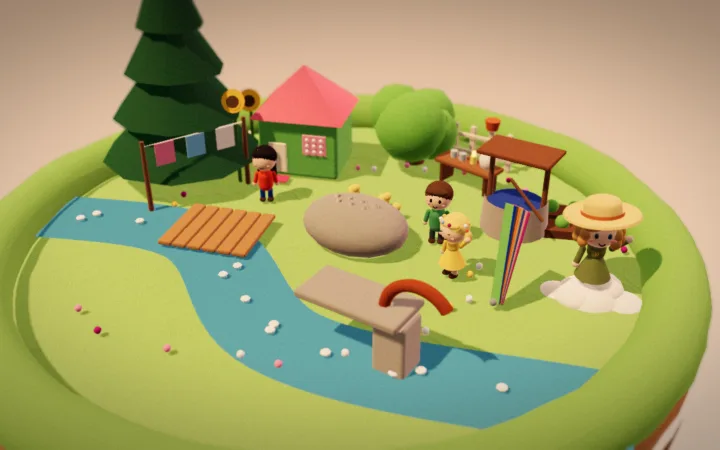
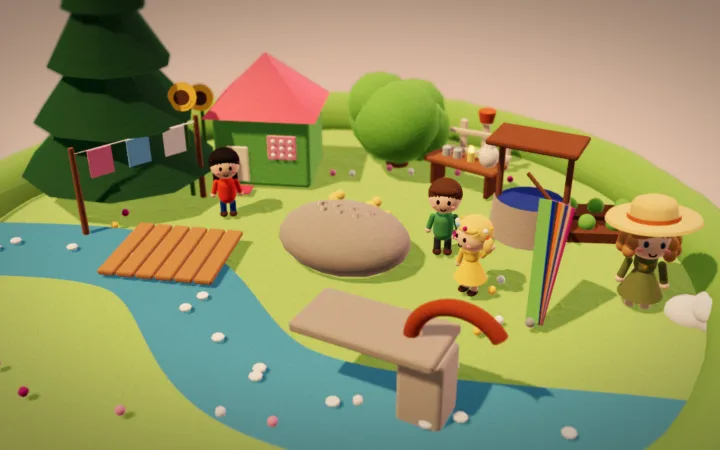
Автор снова спрыгивает на планеты, кнопка ▶ и звук вкл/выкл (spec v0.10) (#17)
- Посадка на каждой планете; места проверены лучом; камера «Асфодели» ниже
- Круглая кнопка ▶ по центру первой реплики, звук вкл/выкл слева внизу
- Отступ реплик от верха экрана 12 px

Claude-Session: https://claude.ai/code/session_01QsQA17zbFwrPucVXSc2DSr

diff --git a/src/world/main.js b/src/world/main.js
@@ -83,7 +83,7 @@ const KEYS = [
   [0.55, () => at('fan', 9, 11, 15), () => at('fan', 0, 0, 0)],
   [0.61, () => dive('fan'), () => focus('fan')],
   [0.72, () => at('asf', 22, 16, 34), () => at('asf', 0, 5, 0)],
-  [0.80, () => atL('asf', 7, 2.5, 13), () => atL('asf', 0, 4.5, 0)],
+  [0.80, () => atL('asf', 7, 3.4, 13), () => atL('asf', 0, 2.8, 0)], // герои и автор внизу целиком в кадре, лестница видна
   [0.88, () => atL('asf', 7, 15, 10), () => atL('asf', 1.2, 10.2, -1.6)],
   [0.94, () => at('home', 16, 13, 20), () => at('home', 0, 0, 0)],
   [1.00, () => dive('home'), () => focus('home')],
@@ -105,10 +105,10 @@ const seatW = () => { const v = new THREE.Vector3(); P.home.seat.getWorldPositio
 const STATIONS = [
   // приветствие: автор близко и по центру кадра, лицом к гостю (spec v0.6)
   { p: 0.00, say: 'intro', wave: true, onCloud: true, pos: () => { const c = V(10, 34, 64); return c.clone().add(V(40, 0, -30).sub(c).normalize().multiplyScalar(9)).add(V(0, -2.5, 0)); } },
-  { p: 0.16, say: 'kuv', pos: local3('kuv', 2.5, 0.3, 1.3), planet: 'kuv' }, // ниже в кадре: над автором есть место для реплики
+  { p: 0.16, say: 'kuv', pos: local3('kuv', 1.7, 0.27, 0.1), planet: 'kuv' }, // край большого листа: твёрдо под ногами (луч сверху), над автором есть место для реплики
   { p: 0.39, say: 'dub', pos: local3('dub', 4.2, 0.06, 1.2), planet: 'dub' }, // трава справа от площадки: не за щитом (проверено лучом сверху)
   { p: 0.61, say: 'fan', pos: local3('fan', 4.2, 0.06, -1.0), planet: 'fan' }, // лужайка справа: не в речке и не за скамейкой (проверено лучом сверху)
-  { p: 0.80, say: 'asf', pos: local3('asf', 2.4, 0.12, 2.1), planet: 'asf' },
+  { p: 0.80, say: 'asf', pos: local3('asf', 2.8, 0.06, 0.4), planet: 'asf' }, // дальше от камеры: целиком в кадре, над головой нет ступеней (луч сверху)
   { p: 1.00, say: 'home', sit: true, pos: seatW, seatQuat: (q) => P.home.seat.getWorldQuaternion(q) },
 ];
 const author = buildAuthor(scene, STATIONS);
@@ -295,7 +295,7 @@ function placeTags() {
       if (on) {
         const [w, h] = sizes.get(el) || [0, 0];
         const x = clamp((v.x * 0.5 + 0.5) * innerWidth, w / 2 + 8, innerWidth - w / 2 - 8);
-        let y = clamp((-v.y * 0.5 + 0.5) * innerHeight, h + 70, innerHeight - 70);
+        let y = clamp((-v.y * 0.5 + 0.5) * innerHeight, h + 12, innerHeight - 40); // меню сверху нет — отступ от края небольшой
         const isSay = el.classList.contains('say');
         if (isSay && innerWidth <= 640) { const r = el.getBoundingClientRect(); if (r.height && root.dataset.say === el.dataset.say) placed.push([r.left, r.top, r.right, r.bottom]); }
         else {
@@ -305,10 +305,10 @@ function placeTags() {
             // сначала пробуем выше, потом ниже того, на что наехали
             let up = y; for (let i = 0; i < 6; i++) { const q = clash(up); if (!q) break; up = q[1] - 6; }
             let dn = y; for (let i = 0; i < 6; i++) { const q = clash(dn); if (!q) break; dn = q[3] + h + 6; }
-            y = up - h > 60 && (y - up <= dn - y || dn > innerHeight - 20) ? up : dn;
+            y = up - h > 8 && (y - up <= dn - y || dn > innerHeight - 20) ? up : dn;
           }
           const shown = !isSay || root.dataset.say === el.dataset.say; // реплика видна только у своей станции
-          if (isSay || (y - h > 60 && y < innerHeight - 20)) { if (shown) placed.push([x - w / 2, y - h, x + w / 2, y]); el.style.transform = `translate3d(${x.toFixed(1)}px, ${y.toFixed(1)}px, 0) translate(-50%, -100%)`; }
+          if (isSay || (y - h > 8 && y < innerHeight - 20)) { if (shown) placed.push([x - w / 2, y - h, x + w / 2, y]); el.style.transform = `translate3d(${x.toFixed(1)}px, ${y.toFixed(1)}px, 0) translate(-50%, -100%)`; }
           else on = false; // места нет — ярлык прячется, пока камера не повернётся
         }
       }

diff --git a/src/app/globals.css b/src/app/globals.css
@@ -396,17 +396,23 @@ html[data-say="home"] .say[data-say="home"].on { visibility: visible; opacity: 1
 .preloader-ring span { position: absolute; inset: 0; display: grid; place-items: center; font-family: var(--font-hand); font-size: 40px; font-weight: 700; color: var(--foreground); font-variant-numeric: tabular-nums; }
 
 /* музыка (spec v0.8): кнопка в первой реплике и нота в углу, пока играет */
-.say-music { display: inline-flex; align-items: center; gap: 6px; font-family: var(--font-hand); font-size: 21px; font-weight: 700; color: var(--accent); text-decoration: underline; text-decoration-style: wavy; text-underline-offset: 5px; cursor: pointer; }
-.say-music span { text-decoration: none; display: inline-block; }
 .music-toggle { position: fixed; z-index: 9; left: calc(14px + env(safe-area-inset-left, 0px)); bottom: calc(14px + env(safe-area-inset-bottom, 0px)); width: 44px; height: 44px; border-radius: 999px;
   display: grid; place-items: center; background: var(--paper); color: var(--accent); font-size: 22px; box-shadow: 0 8px 22px oklch(0.2 0.03 300 / 22%); cursor: pointer; }
-.music-toggle:focus-visible, .say-music:focus-visible { outline: 3px solid var(--ring); outline-offset: 2px; }
-@media (prefers-reduced-motion: no-preference) { .music-toggle span { animation: note-bob 1.6s ease-in-out infinite; } }
-@keyframes note-bob { 50% { transform: translateY(-3px) rotate(-8deg); } }
-@media (max-width: 640px) { .music-toggle { bottom: auto; top: calc(12px + env(safe-area-inset-top, 0px)); } }
+.music-toggle:focus-visible, .say-play:focus-visible { outline: 3px solid var(--ring); outline-offset: 2px; }
 
 /* страница поверх мира — лист по центру, мир за ним притушен (spec v0.8) */
 .has-world .panel { top: 50%; left: 50%; right: auto; bottom: auto; translate: -50% -50%; width: min(760px, calc(100vw - 32px)); height: auto; max-height: calc(100dvh - 48px); }
 @media (max-width: 900px) { .has-world .panel { top: 50%; left: 50%; right: auto; bottom: auto; width: calc(100vw - 24px); height: auto; max-height: calc(100dvh - 32px); border-radius: 3px 4px 7px 3px; } }
 .has-world main:has(.panel)::before { content: ""; position: fixed; inset: 0; z-index: 7; background: oklch(0.2 0.04 300 / 32%); }
 @keyframes panel-in { from { opacity: 0; scale: 0.96; } }
+
+/* музыка (spec v0.10): круглая ▶ по центру первой реплики, звук вкл/выкл — слева внизу */
+.say-play-row { display: flex !important; justify-content: center; margin-top: 10px; }
+.say-play { width: 60px; height: 60px; border-radius: 999px; display: grid; place-items: center; background: var(--accent); color: var(--accent-foreground); box-shadow: 0 8px 20px oklch(0.544 0.187 344.5 / 35%); cursor: pointer; transition: transform .2s; }
+.say-play svg { width: 26px; height: 26px; fill: currentColor; }
+.say-play:not([aria-pressed="true"]) svg { margin-left: 3px; } /* оптически по центру треугольника */
+.say-play:hover { transform: scale(1.06); }
+@media (prefers-reduced-motion: no-preference) { .say-play:not([aria-pressed="true"]) { animation: play-pulse 2.2s ease-in-out infinite; } }
+@keyframes play-pulse { 0%, 100% { box-shadow: 0 8px 20px oklch(0.544 0.187 344.5 / 35%), 0 0 0 0 oklch(0.544 0.187 344.5 / 35%); } 50% { box-shadow: 0 8px 20px oklch(0.544 0.187 344.5 / 35%), 0 0 0 10px oklch(0.544 0.187 344.5 / 0%); } }
+.music-toggle svg { width: 22px; height: 22px; }
+@media (max-width: 640px) { .music-toggle { bottom: auto; top: calc(12px + env(safe-area-inset-top, 0px)); } } /* на телефоне внизу — реплика автора */

diff --git a/src/components/music.tsx b/src/components/music.tsx
@@ -1,30 +1,37 @@
 "use client";
 import { useEffect, useState } from "react";
-import { isMusicOn, onMusic, setMusic } from "@/lib/music";
+import { Pause, Play, Volume2, VolumeX } from "lucide-react";
+import { isMusicOn, onMusic, setMusic, wasMusicStarted } from "@/lib/music";
 
 const useMusic = () => {
   const [on, setOn] = useState(false);
-  useEffect(() => { setOn(isMusicOn()); return onMusic(setOn); }, []);
-  return on;
+  const [started, setStarted] = useState(false);
+  useEffect(() => {
+    setOn(isMusicOn()); setStarted(wasMusicStarted());
+    return onMusic((v) => { setOn(v); setStarted(wasMusicStarted()); });
+  }, []);
+  return { on, started };
 };
 
-// Кнопка в первой реплике автора (spec v0.8): «Включить музыку» / «Выключить музыку»
+// Круглая кнопка ▶ по центру первой реплики (spec v0.10)
 export function MusicButton() {
-  const on = useMusic();
+  const { on } = useMusic();
+  const label = on ? "Поставить музыку на паузу" : "Включить музыку";
   return (
-    <button type="button" className="say-music" aria-pressed={on} onClick={() => setMusic(!on)}>
-      <span aria-hidden>♪</span> {on ? "Выключить музыку" : "Включить музыку"}
+    <button type="button" className="say-play" aria-pressed={on} aria-label={label} title={label} onClick={() => setMusic(!on)}>
+      {on ? <Pause aria-hidden /> : <Play aria-hidden />}
     </button>
   );
 }
 
-// Пока музыка играет — маленькая нота в углу, чтобы выключить её на любой планете (WCAG 1.4.2)
+// Слева внизу — звук вкл/выкл; появляется, когда музыку включили хотя бы раз (WCAG 1.4.2)
 export function MusicToggle() {
-  const on = useMusic();
-  if (!on) return null;
+  const { on, started } = useMusic();
+  if (!started) return null;
+  const label = on ? "Выключить звук" : "Включить звук";
   return (
-    <button type="button" className="music-toggle" aria-label="Выключить музыку" title="Выключить музыку" onClick={() => setMusic(false)}>
-      <span aria-hidden>♪</span>
+    <button type="button" className="music-toggle" aria-pressed={!on} aria-label={label} title={label} onClick={() => setMusic(!on)}>
+      {on ? <Volume2 aria-hidden /> : <VolumeX aria-hidden />}
     </button>
   );
 }

diff --git a/src/lib/music.ts b/src/lib/music.ts
@@ -7,6 +7,7 @@ let ctx: AudioContext | null = null;
 let master: GainNode | null = null;
 let timer = 0;
 let playing = false;
+let started = false; // музыку уже включали — в углу виден переключатель звука
 let nextT = 0;
 let step = 0;
 const listeners = new Set<Listener>();
@@ -59,6 +60,7 @@ function schedule() {
 }
 
 export function isMusicOn() { return playing; }
+export function wasMusicStarted() { return started; }
 export function onMusic(fn: Listener) { listeners.add(fn); return () => { listeners.delete(fn); }; }
 const emit = () => listeners.forEach((fn) => fn(playing));
 
@@ -73,7 +75,7 @@ export async function setMusic(on: boolean) {
     master!.gain.linearRampToValueAtTime(0.55, ctx.currentTime + 2.5); // мягкое появление
     nextT = ctx.currentTime + 0.1; step = 0;
     schedule(); timer = window.setInterval(schedule, 200);
-    playing = true;
+    playing = true; started = true;
   } else if (ctx && master) {
     const t = ctx.currentTime; master.gain.cancelScheduledValues(t); master.gain.setValueAtTime(master.gain.value, t); master.gain.linearRampToValueAtTime(0, t + 1);
     window.clearInterval(timer); playing = false;

diff --git a/src/world/author.js b/src/world/author.js
@@ -49,10 +49,10 @@ export function buildAuthor(scene, stations) {
         // у края окна посадки облачко приподнимается — взлёт и посадка мягкие
         const d = Math.abs(p - S.at.p); land = 1 - smooth(THREE.MathUtils.clamp((d - W * 0.5) / (W * 0.5), 0, 1));
         if (!sit && S.at.hover) land = 0.4;
-        land = sit ? land : 0; // на планеты не приземляется (spec v0.9): всегда на облачке рядом, садится только за свой стол
+        if (S.at.onCloud) land = 0; // приветствие: стоит на облачке в воздухе; на планетах спрыгивает на землю (spec v0.10)
       }
       root.position.copy(tmp);
-      if (!sit) root.position.y += (1 - land) * 0.2 + (reduce ? 0 : Math.sin(t * 1.6) * 0.06 * (1 - land * 0.7));
+      if (!sit) root.position.y += (1 - land) * 0.6 + (reduce ? 0 : Math.sin(t * 1.6) * 0.06 * (1 - land * 0.7));
 
       // поворот: за столом — лицом к столу, иначе — к камере
       if (sit && S.at.seatQuat) { S.at.seatQuat(q); e.setFromQuaternion(q, 'YXZ'); yaw = e.y; }

diff --git a/src/app/page.tsx b/src/app/page.tsx
@@ -53,7 +53,8 @@ export default function Home() {
             <h1 className="say-title">{say.intro.h1}</h1>
             <p>{say.intro.answer}</p>
             <p className="mt-2">{say.intro.invite}</p>
-            <p className="world-only mt-2">{say.intro.music}<br /><MusicButton /></p>
+            <p className="world-only mt-2">{say.intro.music}</p>
+            <div className="world-only say-play-row"><MusicButton /></div>
           </div>
         </section>
 

diff --git a/specs/05-tasks.md b/specs/05-tasks.md
@@ -105,6 +105,11 @@
 - [x] **F3** Автор без посадок, на «Асфодели» внизу — *проверка:* скриншоты приветствия, «Кувшинок», «Дуба», «Цветных запахов», «Асфодели»
 - [x] **F4** Анимация и тени каждый кадр; счётчик `?fps`; постеры; `npm run check`
 
+## Этап 15. Спрыгивание и кнопки музыки (spec v0.10, решение Ника 2026-10-31)
+- [x] **J1** Автор спрыгивает с облачка на каждой планете — *проверка:* лучи сверху, скриншоты 4 планет
+- [x] **J2** Кнопка ▶ по центру первой реплики; звук вкл/выкл слева внизу — *проверка:* Playwright
+- [x] **J3** Постеры; `npm run check`
+
 ## Вопросы
 | Задача | Вопрос | Кому | Ответ |
 |---|---|---|---|
@@ -132,3 +137,4 @@
 - 2026-10-31 · L1–L4 · подсказки и облегчение (spec v0.7): светлячки (`life.fly`, пруд «Кувшинок», поле Асфодели) убраны; ярлыки `.tag-act` над сюрпризами (якоря над габаритом предмета), Дом автора — ярлыки в одну строку; раскладка ярлыков без наездов (выше/ниже/спрятать); закрытие попапа — `beforetoggle` снимает фокус, фокус на кнопку без прокрутки, позиция держится 0,9 с, возврат с панели — на якорь; автор на «Дубе» (4.2; 1.2) и «Цветных запахах» (4.2; −1.0) — места проверены лучом сверху; MeshStandard вместо Physical, обновление планет и теней 12 раз/с, AO 8, DOF 12, MSAA 2, чёткость ≤ 1,5× с автоснижением; постеры пересняты; `npm run check` — пройдена (geo-check 9.1).
 - 2026-10-31 · M1–M6 · музыка и облегчение (spec v0.8): `lib/music.ts` (Web Audio, C–Am–F–G, 72 уд/мин) и `components/music.tsx`; H1 в прямой речи; прелоадер со шкалой и процентами по этапам; `contactShadow` убран; автор — `wavy` однотонная, шляпа `hat`; обложки двух книг (`coverRatio`); страница с главной — лист по центру, камера стоит, прокрутка возвращается; `world/bake.js` — склейка 1094 из 1533 деталей в 194 объекта, герои дальше 42 и мелочь < 6 px не рисуются, чёткость ≤ 1,25×; команд видеокарте на кадр: обзор ~560, планеты 150–210, Дом 69; `npm run check` — пройдена (geo-check 9.1).
 - 2026-10-31 · F1–F4 · плавность (spec v0.9): шляпа — `LatheGeometry`, лента r 0.33; реплика без «↓» + `say.intro.music`; автор всегда на облачке (подъём 0.2), станция 0.88 убрана, «Кувшинки» — (2.5; 1.3); якорь со шляпой 1.95; анимация текущей планеты, героев и теней — каждый кадр, дальних — 12 раз/с; `?fps`; постеры; `npm run check` — пройдена.
+- 2026-10-31 · J1–J3 · спрыгивание и кнопки музыки (spec v0.10): посадка возвращена (подъём 0.6, `onCloud` только в приветствии), «Кувшинки» (1.7; 0.27; 0.1), «Асфодель» (2.8; 0.06; 0.4), камера p 0.80 ниже; отступ реплик 12 px; `MusicButton` — ▶/‖, `MusicToggle` — Volume2/VolumeX после первого включения; постеры; `npm run check` — пройдена.

diff --git a/specs/02-spec.md b/specs/02-spec.md
@@ -1,7 +1,7 @@
 # 02 · Спецификация — Евгения Перлова
 
 > Главный документ проекта: **что** строим. **Как** — стандарт AI-Ready сайта. История правок — `changes.md`.
-> Версия: 0.9 · Статус: **утверждено Ником 2026-10-31** (v0.9 — плавная анимация, автор на облачке, без мерцания шляпы; решение Ника в чате)
+> Версия: 0.10 · Статус: **утверждено Ником 2026-10-31** (v0.10 — автор снова спрыгивает на планеты, кнопка ▶ и звук вкл/выкл; решение Ника в чате)
 > **Ветка:** новый сайт · **Режим:** ускоренный — сайт на домене Ника, spec и дизайн утверждает Ник (решение Ника 2026-10-29).
 
 ## 1. Коротко
@@ -68,6 +68,11 @@
 - Адрес = место в мире (решение Ника 2026-10-29). Каждая страница — тот же мир; камера летит к месту страницы, контент страницы — в попапе-панели. Закрыть панель — вернуться на главную к этому месту.
 - Весь текст — в HTML каждой страницы. Без WebGL и при «уменьшить движение» виджеты и панели становятся обычной страницей.
 ## 5. Контент страниц
+
+### v0.10 — спрыгивание и кнопки музыки (решение Ника 2026-10-31, заменяет пункты v0.8–v0.9 ниже, где они расходятся)
+- На каждой планете автор спрыгивает с облачка на землю (облачко отплывает в сторону); в приветствии стоит на облачке в воздухе; в конце садится за стол. Места посадки проверены лучом сверху: «Кувшинки» — край большого листа (1.7; 0.1), «Асфодель» — (2.8; 0.4), внизу. Камера «Асфодели» (p 0.80) опущена: герои и автор в кадре целиком. Вмятины от облачка снова появляются.
+- Музыка: круглая кнопка ▶ по центру первой реплики (на паузе — ‖); слева внизу — «звук вкл/выкл», появляется после первого включения (на телефоне — слева вверху, внизу реплика автора).
+- Реплики и ярлыки держат отступ 12 px от верха экрана (меню сверху нет).
 
 ### v0.9 — плавность (решение Ника 2026-10-31, заменяет пункты v0.5–v0.8 ниже, где они расходятся)
 - Покадровой анимации 12 кадров/с нет: текущая планета, герои, автор, деревья и тени обновляются каждый кадр; дальние планеты и детализация — 12 раз в секунду. Ограничения FPS нет — частота экрана. `?fps` в адресе показывает счётчик кадров.

diff --git a/specs/decisions.md b/specs/decisions.md
@@ -47,6 +47,7 @@
 | Весь сайт — одно 3D-пространство: без секций, интерфейс — парящие виджеты, контент — попапы по табличкам; адрес = место в мире; навигация — скролл + клик по планете; персонажи — глиняные фигурки; телефон — то же пространство, проще | Ник | 2026-10-29 |
 | Проводник — фигурка автора на облачке: приветствие, рассказ о каждой книге в бабле, в конце садится за стол и просит не отвлекать. Плашек H1 и 16+ нет | Ник | 2026-10-30 |
 | Виджетов нет (знак, меню, маршрут, копирайт, ПДн); интерактив без подсказок в виджетах; стиль — акварель и карандаш | Ник | 2026-10-30 |
+| Автор снова спрыгивает с облачка на планеты; музыка — кнопка ▶ по центру, звук вкл/выкл слева внизу | Ник | 2026-10-31 |
 | Без покадровой анимации — плавно каждый кадр; автор не приземляется, на «Асфодели» внизу | Ник | 2026-10-31 |
 | Музыка — своя колыбельная в браузере, только по кнопке; автор в соломенной шляпе; страницы с главной — лист по центру без полёта камеры; склейка сцены для скорости | Ник | 2026-10-31 |
 | Светлячков нет — ярлыки-подсказки у интерактивных предметов; облегчение рендера (тени и анимации 12 раз/с, без «бархата», адаптивная чёткость) | Ник | 2026-10-31 |

diff --git a/specs/STATUS.md b/specs/STATUS.md
@@ -37,7 +37,8 @@
 - Сделано: spec v0.7 — подсказки вместо светлячков, облегчение, без перекрытий (этап 12).
 - Сделано: spec v0.8 — музыка, автор в шляпе, обложки двух книг, страницы по центру, склейка сцены (этап 13).
 - Сделано: spec v0.9 — плавная анимация, автор на облачке, шляпа без мерцания (этап 14).
-- Следующий шаг: Ник открывает сайт с ?fps на компьютере и телефоне и присылает цифры; Ник смотрит на компьютере и телефоне (плавность, нагрев — AO и размытие тяжелее акварели); автор сверяет внешность фигурки и реплики от первого лица; номер Метрики (тогда вернуть ссылку на политику и баннер cookies).
+- Сделано: spec v0.10 — спрыгивание автора, кнопка ▶ и звук вкл/выкл (этап 15).
+- Следующий шаг: Ник выбирает улучшения из списка арт-директора; открывает сайт с ?fps на компьютере и телефоне и присылает цифры; Ник смотрит на компьютере и телефоне (плавность, нагрев — AO и размытие тяжелее акварели); автор сверяет внешность фигурки и реплики от первого лица; номер Метрики (тогда вернуть ссылку на политику и баннер cookies).
 
 ## Ждём
 | Что | От кого | С какой даты | Что делаем, пока ждём |

diff --git a/specs/changes.md b/specs/changes.md
@@ -44,3 +44,7 @@
 ## v0.9 — 2026-10-31 · плавность (Ник)
 - Плавная анимация каждый кадр вместо 12 кадров/с; тени каждый кадр; счётчик `?fps`.
 - Автор на облачке без посадок, на «Асфодели» внизу; шляпа без мерцания; приглашение включить музыку.
+
+## v0.10 — 2026-10-31 · спрыгивание и кнопки музыки (Ник)
+- Автор снова спрыгивает с облачка на каждой планете; места посадки и камера «Асфодели» подобраны.
+- Кнопка ▶ по центру первой реплики; слева внизу — звук вкл/выкл.
